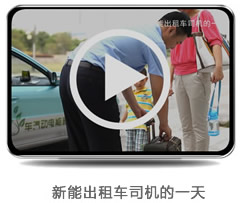
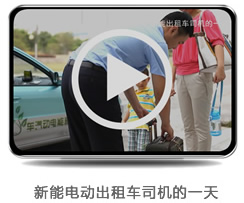
更改首页右下角banner为“新能电动出租车司机的一天”

diff --git a/a/gb2312/about.html b/a/gb2312/about.html
@@ -26,7 +26,7 @@ function CheckLogin(){
       <div id="navMenu">
         <ul>
           <li><i class="left"></i><i class="right"></i><a href="/"><span>首页</span></a></li>
-          <li class='hover'><i></i><a href='/a/gb2312/about.html' ><span>走入新能</span></a></li><li><i></i><a href='/a/gb2312/news/index.html' ><span>新闻中心</span></a></li> <li><i></i><a href='/a/gb2312/product/index.html' ><span>产品展厅</span></a></li> <li><i></i><a href='/a/gb2312/marketing/index.html' ><span>经销支持</span></a></li> <li><i></i><a href='/a/gb2312/aftermarket/index.html' ><span>售后服务</span></a></li> <li><i></i><a href='/a/gb2312/contact/index.html' ><span>联系我们</span></a></li> 
+          <li class='hover'><i></i><a href='/a/gb2312/about.html' ><span>走入新能</span></a></li><li><i></i><a href='/a/gb2312/news/index.html'  rel='dropmenu3'><span>新闻中心</span></a></li> <li><i></i><a href='/a/gb2312/product/index.html' ><span>产品展厅</span></a></li> <li><i></i><a href='/a/gb2312/marketing/index.html' ><span>经销支持</span></a></li> <li><i></i><a href='/a/gb2312/aftermarket/index.html' ><span>售后服务</span></a></li> <li><i></i><a href='/a/gb2312/contact/index.html' ><span>联系我们</span></a></li> 
         </ul>
       </div>
     </div>
@@ -44,7 +44,7 @@ function CheckLogin(){
       <div class="content">
       <!-- 　　 -->
       <p style="text-align: center; "><embed src="http://player.youku.com/player.php/sid/XNDc3OTI2NDEy/v.swf" allowfullscreen="true" quality="high" width="480" height="400" align="middle" allowscriptaccess="always" type="application/x-shockwave-flash" data-pinit="registered"></embed></p>
-<p style="text-align: center; "><span style="color: rgb(255, 0, 0); "><span style="font-family: 宋体; ">新能出租车司机的一天</span></span></p>
+<p style="text-align: center; "><span style="color: rgb(255, 0, 0); "><span style="font-family: 宋体; ">新能电动出租车司机的一天</span></span></p>
 <p style="text-align: center; ">&nbsp;</p>
 <p>&nbsp; &nbsp; &nbsp; 新乡市新能电动汽车有限公司注册资金7000万元，一期占地600亩，厂房共计15万平方米，管理中心6000平方米。新能电动汽车项目是省、市重点项目。总装车间已于2011年10月建成并投产，已具备年产5万辆电动汽车的生产能力。</p>
 <p>&nbsp;</p>
@@ -62,16 +62,16 @@ function CheckLogin(){
       <dt class='light'><strong>热点内容</strong></dt>
       <dd class='light'>
        <ul class="c1 ico2">
-        <li><a href="/a/gb2312/news/20110215/1.html" target="_blank">10月29日在新能电动车工地举行了</a></li>
-<li><a href="/a/gb2312/news/20120830/14.html" target="_blank">为电动汽车产业化发展探索新路</a></li>
-<li><a href="/a/gb2312/news/20120312/15.html" target="_blank">科技部部长万钢指导新能电动汽车</a></li>
-<li><a href="/a/gb2312/news/20110423/9.html" target="_blank">河南省发改委领导莅临我公司调研</a></li>
-<li><a href="/a/gb2312/news/20110525/12.html" target="_blank">东南汽车公司领导莅临我公司洽谈</a></li>
-<li><a href="/a/gb2312/news/20120816/13.html" target="_blank">河南省省委书记卢展工同志考察调</a></li>
-<li><a href="/a/gb2312/news/20110423/11.html" target="_blank">张小虞:电动车是汽车工业发展的</a></li>
-<li><a href="/a/gb2312/news/20110423/8.html" target="_blank">河南省副省长史济春一行莅临我公</a></li>
-<li><a href="/a/gb2312/news/20110423/10.html" target="_blank">电动汽车:全球共同的挑战带来共</a></li>
-<li><a href="/a/gb2312/news/20110215/3.html" target="_blank">河南省日前出台了电动汽车产业发</a></li>
+        <li><a href="/a/gb2312/news/company/2011/0215/1.html" target="_blank">10月29日在新能电动车工地举行了</a></li>
+<li><a href="/a/gb2312/news/company/2012/0830/14.html" target="_blank">为电动汽车产业化发展探索新路</a></li>
+<li><a href="/a/gb2312/news/company/2012/0816/13.html" target="_blank">河南省省委书记卢展工同志考察调</a></li>
+<li><a href="/a/gb2312/news/company/2012/0312/15.html" target="_blank">科技部部长万钢指导新能电动汽车</a></li>
+<li><a href="/a/gb2312/news/company/2011/0525/12.html" target="_blank">东南汽车公司领导莅临我公司洽谈</a></li>
+<li><a href="/a/gb2312/news/company/2011/0423/9.html" target="_blank">河南省发改委领导莅临我公司调研</a></li>
+<li><a href="/a/gb2312/news/company/2011/0423/8.html" target="_blank">河南省副省长史济春一行莅临我公</a></li>
+<li><a href="/a/gb2312/news/company/2011/0215/3.html" target="_blank">河南省日前出台了电动汽车产业发</a></li>
+<li><a href="/a/gb2312/news/company/2011/0423/11.html" target="_blank">张小虞:电动车是汽车工业发展的</a></li>
+<li><a href="/a/gb2312/news/trade/2012/1208/22.html" target="_blank">河南新乡电动出租汽车试行一年</a></li>
 
        </ul>
       </dd>
@@ -82,11 +82,13 @@ function CheckLogin(){
     <div class="copyright">新能电动汽车有限公司  豫ICP备10204329号  Copyright &copy; 2010 The XinnengCar.com ALLrights reserved.&nbsp;&nbsp;</div>
     <div class="about_list">
       <ul>
-        <!-- <li><a href="/plus/jobs.php?lang=gb2312" target="_blank">诚聘英才</a> | </li> -->
         <li><a href="/plus/jobs.php" target="_blank">诚聘英才</a> | </li>
-        <li><a href="/a/gb2312/contact/index.html" target="_blank">联系我们</a> | </li>
-        <li><a href="#" target="_blank">隐私保护</a></li>
+        <li><a href="/a/gb2312/contact/index.html" target="_blank">联系我们</a></li>
       </ul>
+    </div>
+    <div class="tjicon clearfix">
+      <script language="javascript" type="text/javascript" src="http://js.users.51.la/15177483.js"></script>
+      <noscript><a href="http://www.51.la/?15177483" target="_blank"><img alt="&#x6211;&#x8981;&#x5566;&#x514D;&#x8D39;&#x7EDF;&#x8BA1;" src="http://img.users.51.la/15177483.asp" style="border:none" /></a></noscript>
     </div>
 </div>
 </div>

diff --git a/templets/default/index.htm b/templets/default/index.htm
@@ -59,7 +59,7 @@ $(function() {
    {/dede:channelartlist} 
   </div>
   <div class="contact">
-    <a href="/a/gb2312/about.html" title="新能出租车司机的一天" target="_blank"><img src="{dede:global.cfg_templeturl/}/default/images/banner_video.jpg" /></a>
+    <a href="/a/gb2312/about.html" title="新能电动出租车司机的一天" target="_blank"><img src="{dede:global.cfg_templeturl/}/default/images/banner_video.jpg" /></a>
   </div>
 </div>
 {dede:include filename='footer.htm' /}

diff --git a/index.html b/index.html
@@ -86,7 +86,7 @@ $(function() {
    </dl> 
   </div>
   <div class="contact">
-    <a href="/a/gb2312/about.html" title="新能出租车司机的一天" target="_blank"><img src="/templets/default/images/banner_video.jpg" /></a>
+    <a href="/a/gb2312/about.html" title="新能电动出租车司机的一天" target="_blank"><img src="/templets/default/images/banner_video.jpg" /></a>
   </div>
 </div>
 <div class="footer wrapper clearfix mT10 mB10">
